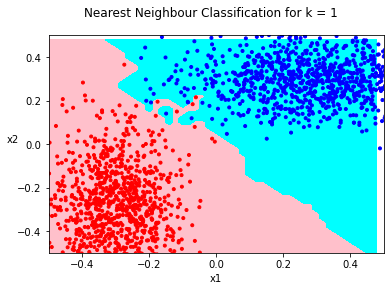
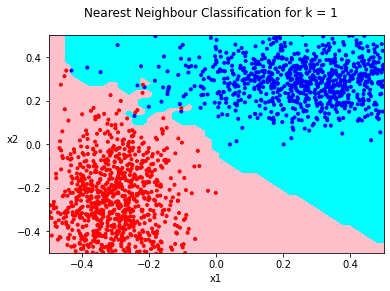
Better pictures.

diff --git a/k-nearest/k-nearest-on-random.py b/k-nearest/k-nearest-on-random.py
@@ -98,10 +98,8 @@ plt.show()
 
 h = .02  # step size in the mesh
 
-
-
-xx, yy = np.meshgrid(np.arange(x_min, x_max, h),
-                 np.arange(y_min, y_max, h))
+xx, yy = np.meshgrid(np.arange(x_min-0.1, x_max+0.1, h),
+                 np.arange(y_min-0.1, y_max+0.1, h))
 #%% Nearest Neighbours
 
 for n_neighbors in [1,2,5,10,15,20]:
